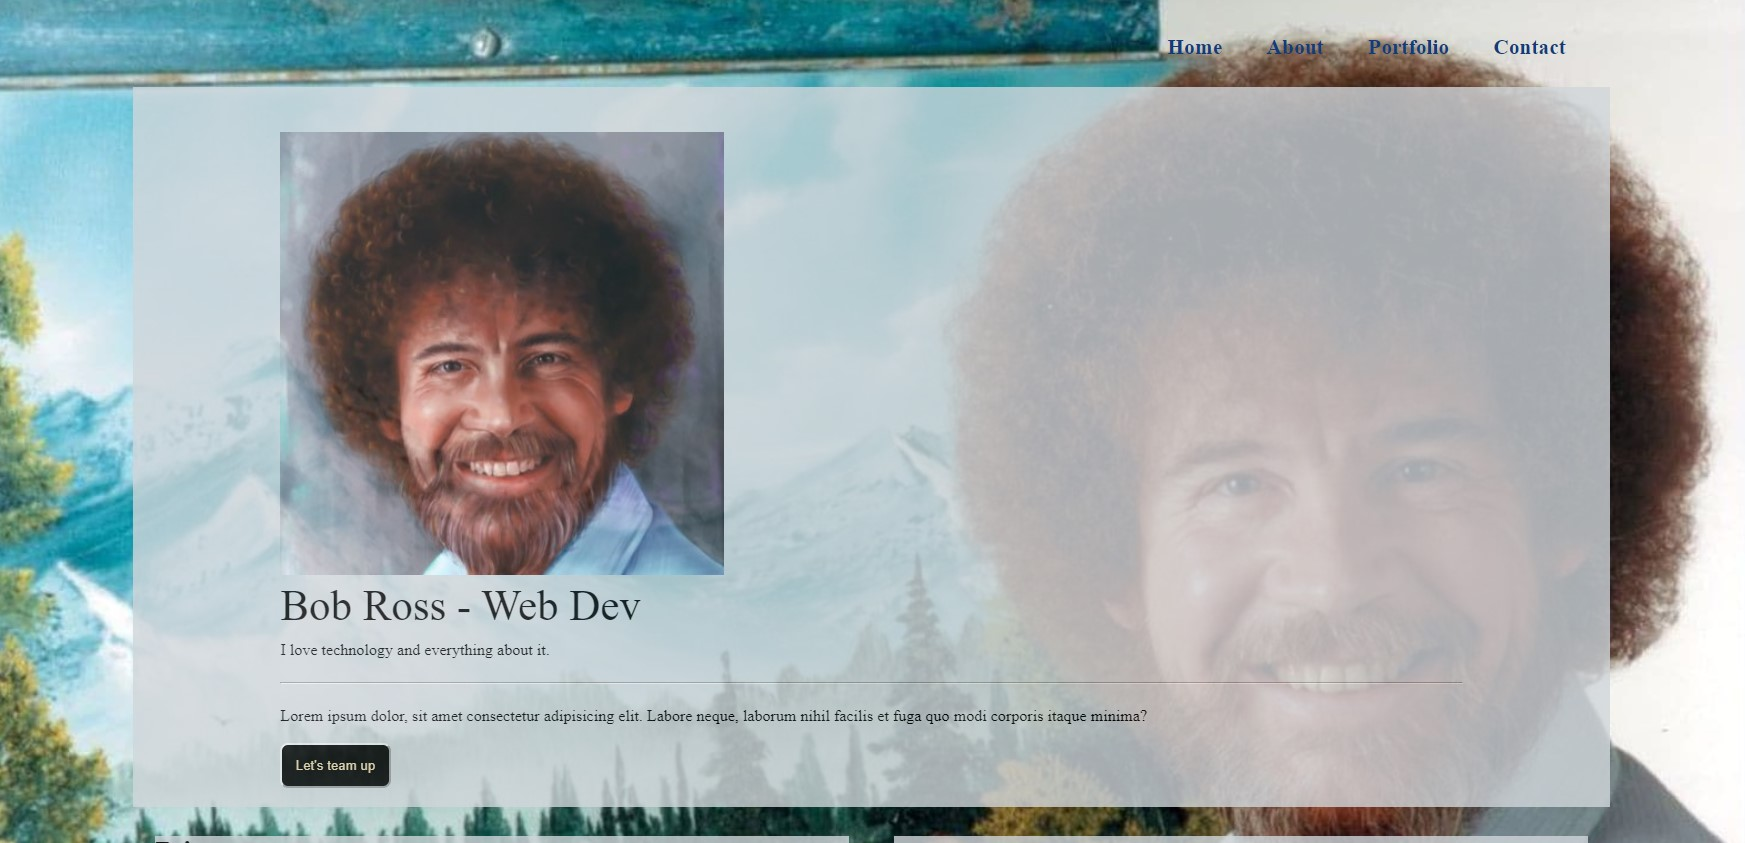
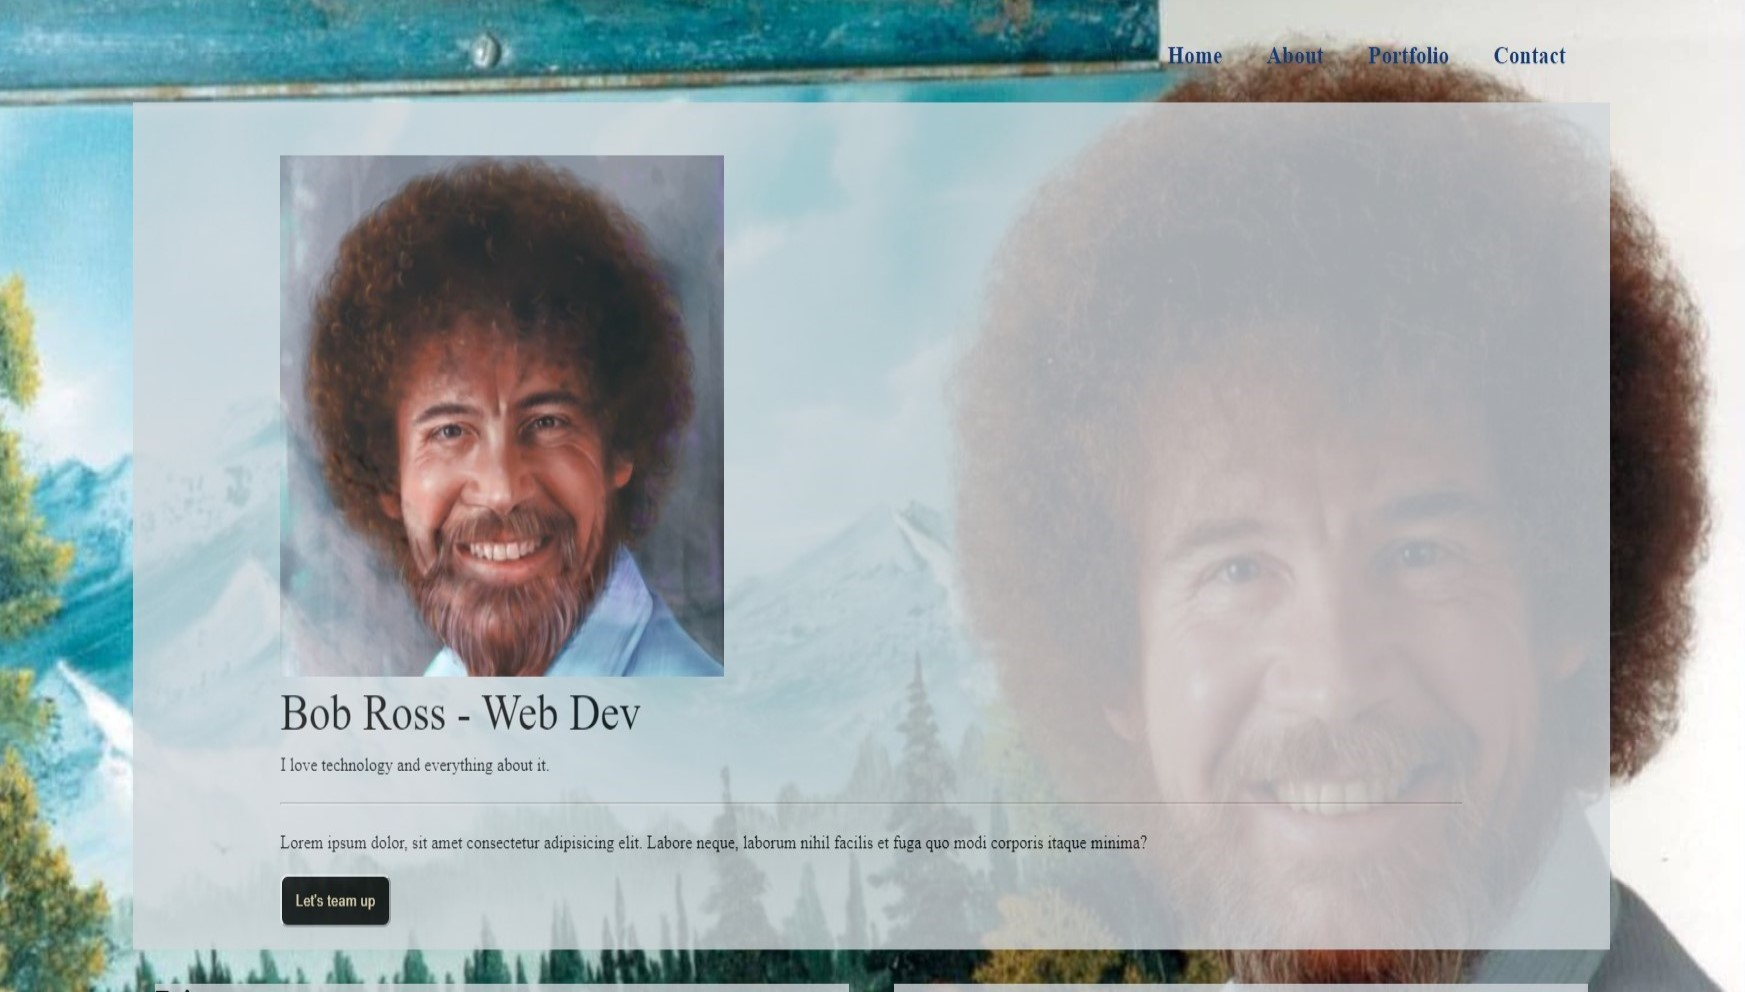
working to fix bugs

diff --git a/index.html b/index.html
@@ -50,9 +50,8 @@
 
 		<!-- One -->
 		<section id="one" class="wrapper style2 spotlights">
-			<section style="border-bottom:10px solid #0E1217">
-				<a href="https://nick-interest-star-wars.now.sh/" class="image"><img src="images/react-wars.png" alt=""
-						data-position="center" /></a>
+			<section>
+				<a class="image"><img src="images/react-wars.png" alt="" /></a>
 				<div class="content">
 					<div>
 						<h2 style="color:whitesmoke;font-family: 'Roboto Condensed', sans-serif;text-align:center;">
@@ -61,14 +60,14 @@
 							<li>Worked independently from code provided: "https://codepen.io/fabvaltech/pen/axXveG", utilized React & Redux to build a graphic scroll similar to the opening scene of Star Wars!</li>
 							<li>Styled mostly with styled components.</li>
 							<li>Used Axios to call from an API.</li>
-							<li></li>
+							<button class="w3-button w3-black" style="border-radius: 2px;">See the Code<a href="https://nick-interest-star-wars.now.sh/"></a></button>
+							<button href="https://github.com/NicholasInterest1/Sprint-Challenge-React-Wars/tree/nick-interest" style="border-radius: 2px;margin-left:1rem;">See the Project</button>
 						</ul>
 					</div>
 				</div>
 			</section>
-			<section style="border-bottom:10px solid #0E1217">
-				<a href="https://preprocessing-1.now.sh/" class="image"><img src="images/bob-ross.jpg" alt=""
-						data-position="top center" /></a>
+			<section>
+				<a href="https://preprocessing-1.now.sh/" class="image"><img src="images/bob-ross.jpg" alt="" /></a>
 				<div class="content">
 					<div class="inner">
 						<h2 style="color:whitesmoke;font-size: 30px;
@@ -77,11 +76,13 @@
 							<li>Created using mostly CSS with a little JS and HTML.</li>
 							<li>Styled with CSS.</li>
 							<li>Used Axios to call from the Star Wars API (https://swapi.co/).</li>
+							<button style="border-radius: 2px;">See the Code</button>
+							<button style="border-radius: 2px;margin-left:1rem;">See the Project</button>
 						</ul>
 					</div>
 				</div>
 			</section>
-			<section style="border-bottom:10px solid #0E1217">
+			<section>
 				<a href="https://ricknmortyapp.now.sh/" class="image"><img src="images/rick-&-morty.png" alt=""
 						data-position="25% 25%" /></a>
 				<div class="content">
@@ -92,11 +93,13 @@
 								Redux to build out components.</li>
 							<li>Styled with Semantic UI.</li>
 							<li>Used Axios to call an API.</li>
+							<button style="border-radius: 2px;">See the Code</button>
+							<button style="border-radius: 2px;margin-left:1rem;">See the Project</button>
 						</ul>
 					</div>
 				</div>
 			</section>
-			<section style="border-bottom:10px solid #0E1217">
+			<section>
 				<a href="https://patriots-vs-falcons.now.sh/" class="image"><img src="images/go-pats.jpg" alt=""
 						data-position="25% 25%" /></a>
 				<div class="content">
@@ -107,11 +110,13 @@
 							<li>Created a React App with UseState hooks, click handlers, onClick handlers, and
 								showing the ability to render the score to the DOM.</li>
 							<li>Styled this project with CSS.</li>
+							<button style="border-radius: 2px;">See the Code</button>
+							<button style="border-radius: 2px;margin-left:1rem;">See the Project</button>
 						</ul>
 					</div>
 				</div>
 			</section>
-			<section style="border-bottom:10px solid #0E1217">
+			<section>
 				<a href="https://car-sales-nick5890.now.sh/" class="image"><img src="images/car-sales.jpg" alt=""
 						data-position="25% 25%" /></a>
 				<div class="content">
@@ -121,11 +126,13 @@
 							<li>Created a React App with Redux to build out components.</li>
 							<li>Styled with Sass.</li>
 							<li>Customizable 2019 Mustang Bullitt.</li>
+							<button style="border-radius: 2px;">See the Code</button>
+							<button style="border-radius: 2px;margin-left:1rem;">See the Project</button>
 						</ul>
 					</div>
 				</div>
 			</section>
-			<section style="border-bottom:10px solid #0E1217">
+			<section>
 				<a href="https://luxapplication.com" class="image"><img src="images/we-got-this.jpg" alt=""
 						data-position="25% 25%" /></a>
 				<div class="content">
@@ -136,6 +143,8 @@
 							<li>Created a React App with Redux.</li>
 							<li>Styled with Material UI.</li>
 							<li>Used Firebase for a Back-End & Database with a built in google auth.</li>
+							<button style="border-radius: 2px;" href="https://luxapplication.com">See the Code</button>
+							<button style="border-radius: 2px;margin-left:1rem;">See the Project</button>
 						</ul>
 					</div>
 				</div>

diff --git a/assets/css/main.css b/assets/css/main.css
@@ -30,6 +30,12 @@ footer, header, hgroup, menu, nav, section {
 
 body {
 	line-height: 1;
+	/* background-repeat: no-repeat !important; */
+	
+}
+
+.squareImg {
+	display:none !important;
 }
 
 ol, ul {
@@ -1837,8 +1843,9 @@ input, select, textarea {
 		height: calc(4.75em + 2px);
 		letter-spacing: 0.25em;
 		line-height: 4.75em;
+		margin-top: 1.5rem;
 		outline: 0;
-		padding: 0 3.75em;
+		padding: 0 1.5em;
 		position: relative;
 		text-align: center;
 		text-decoration: none;
@@ -2568,6 +2575,7 @@ input, select, textarea {
 		/* border-radius: 0.25em; */
 		border: 0;
 		min-width: 50rem;
+		background-repeat: no-repeat;
 		/* display: inline-block; */
 		/* position: relative; */
 		
@@ -2576,6 +2584,7 @@ input, select, textarea {
 		.image img {
 			border-radius: 0.25em;
 			display: block;
+			border: 10px solid red !important;
 		}
 
 		.image.left, .image.right {
@@ -3019,15 +3028,15 @@ input, select, textarea {
 
 		.spotlights > section > .image {
 			background-position: center center;
-			background-size: cover;
+			background-size: contain;
 			border-radius: 0;
 			display: block;
 			position: relative;
-			width: 25em;
+			/* width: 25em; */
 		}
 
 			.spotlights > section > .image img {
-				border-radius: 0;
+				border-radius: 100%;
 				display: block;
 			}
 
@@ -3037,9 +3046,10 @@ input, select, textarea {
 				-ms-transition: opacity 1s ease;
 				transition: opacity 1s ease;
 				background: rgba(49, 36, 80, 0.9);
+				background-size:initial;
 				content: '';
 				display: block;
-				height: 100%;
+				/* height: 100%; */
 				left: 0;
 				opacity: 0;
 				position: absolute;
